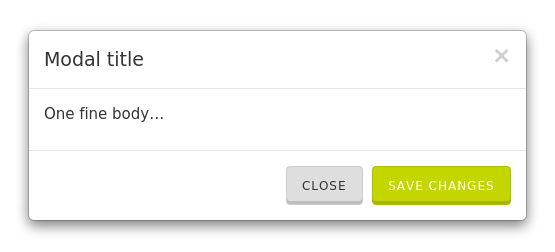
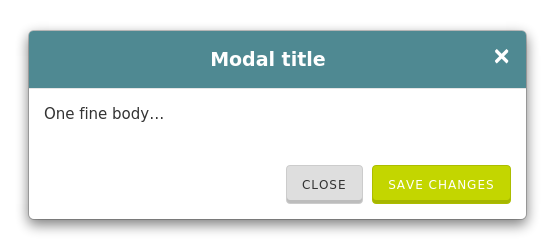
fix(modal): add style for modal (#71)

diff --git a/src/theme/_modals.scss b/src/theme/_modals.scss
@@ -1,0 +1,38 @@
+////
+/// Bootstrap modal customization
+/// @group Modals
+////
+
+/// Modal header background color
+///
+/// @type Color
+$modal-header-bg:             $brand-primary !default;
+
+/// Modal header color
+///
+/// @type Color
+$modal-header-color:          $white !default;
+
+.modal {
+	&-header {
+		border-top-left-radius: $border-radius-base;
+		border-top-right-radius: $border-radius-base;
+		background-color: $modal-header-bg;
+
+		.modal-title {
+			font-weight: bold;
+			color: $modal-header-color;
+			text-align: center;
+		}
+
+		.close {
+			color: $modal-header-color;
+			opacity: 1;
+		}
+	}
+
+	&-footer {
+		border-top: none;
+	}
+
+}

diff --git a/src/theme/_variables.scss b/src/theme/_variables.scss
@@ -623,7 +623,7 @@ $modal-title-padding:         15px !default;
 $modal-title-line-height:     $line-height-base !default;
 
 //** Background color of modal content area
-$modal-content-bg:                             #FFF !default;
+$modal-content-bg:            lighten($brand-primary, 90%) !default;
 //** Modal content border color
 $modal-content-border-color:                   $shadow !default;
 //** Modal content border color **for IE8**

diff --git a/src/theme/bootstrap.scss b/src/theme/bootstrap.scss
@@ -59,6 +59,7 @@
 
 // Components w/ JavaScript
 @import '~bootstrap-sass/assets/stylesheets/bootstrap/modals';
+@import './modals';
 @import '~bootstrap-sass/assets/stylesheets/bootstrap/tooltip';
 @import '~bootstrap-sass/assets/stylesheets/bootstrap/popovers';
 @import '~bootstrap-sass/assets/stylesheets/bootstrap/carousel';

diff --git a/example/index.html b/example/index.html
@@ -1213,7 +1213,7 @@
         </div>
         <div class="row">
           <div class="col-lg-6">
-            <h2>Modals</h2>
+            <h2>Dialog box</h2>
             <div id="modals-component" class="bs-component">
               <div class="modal">
                 <div class="modal-dialog">
